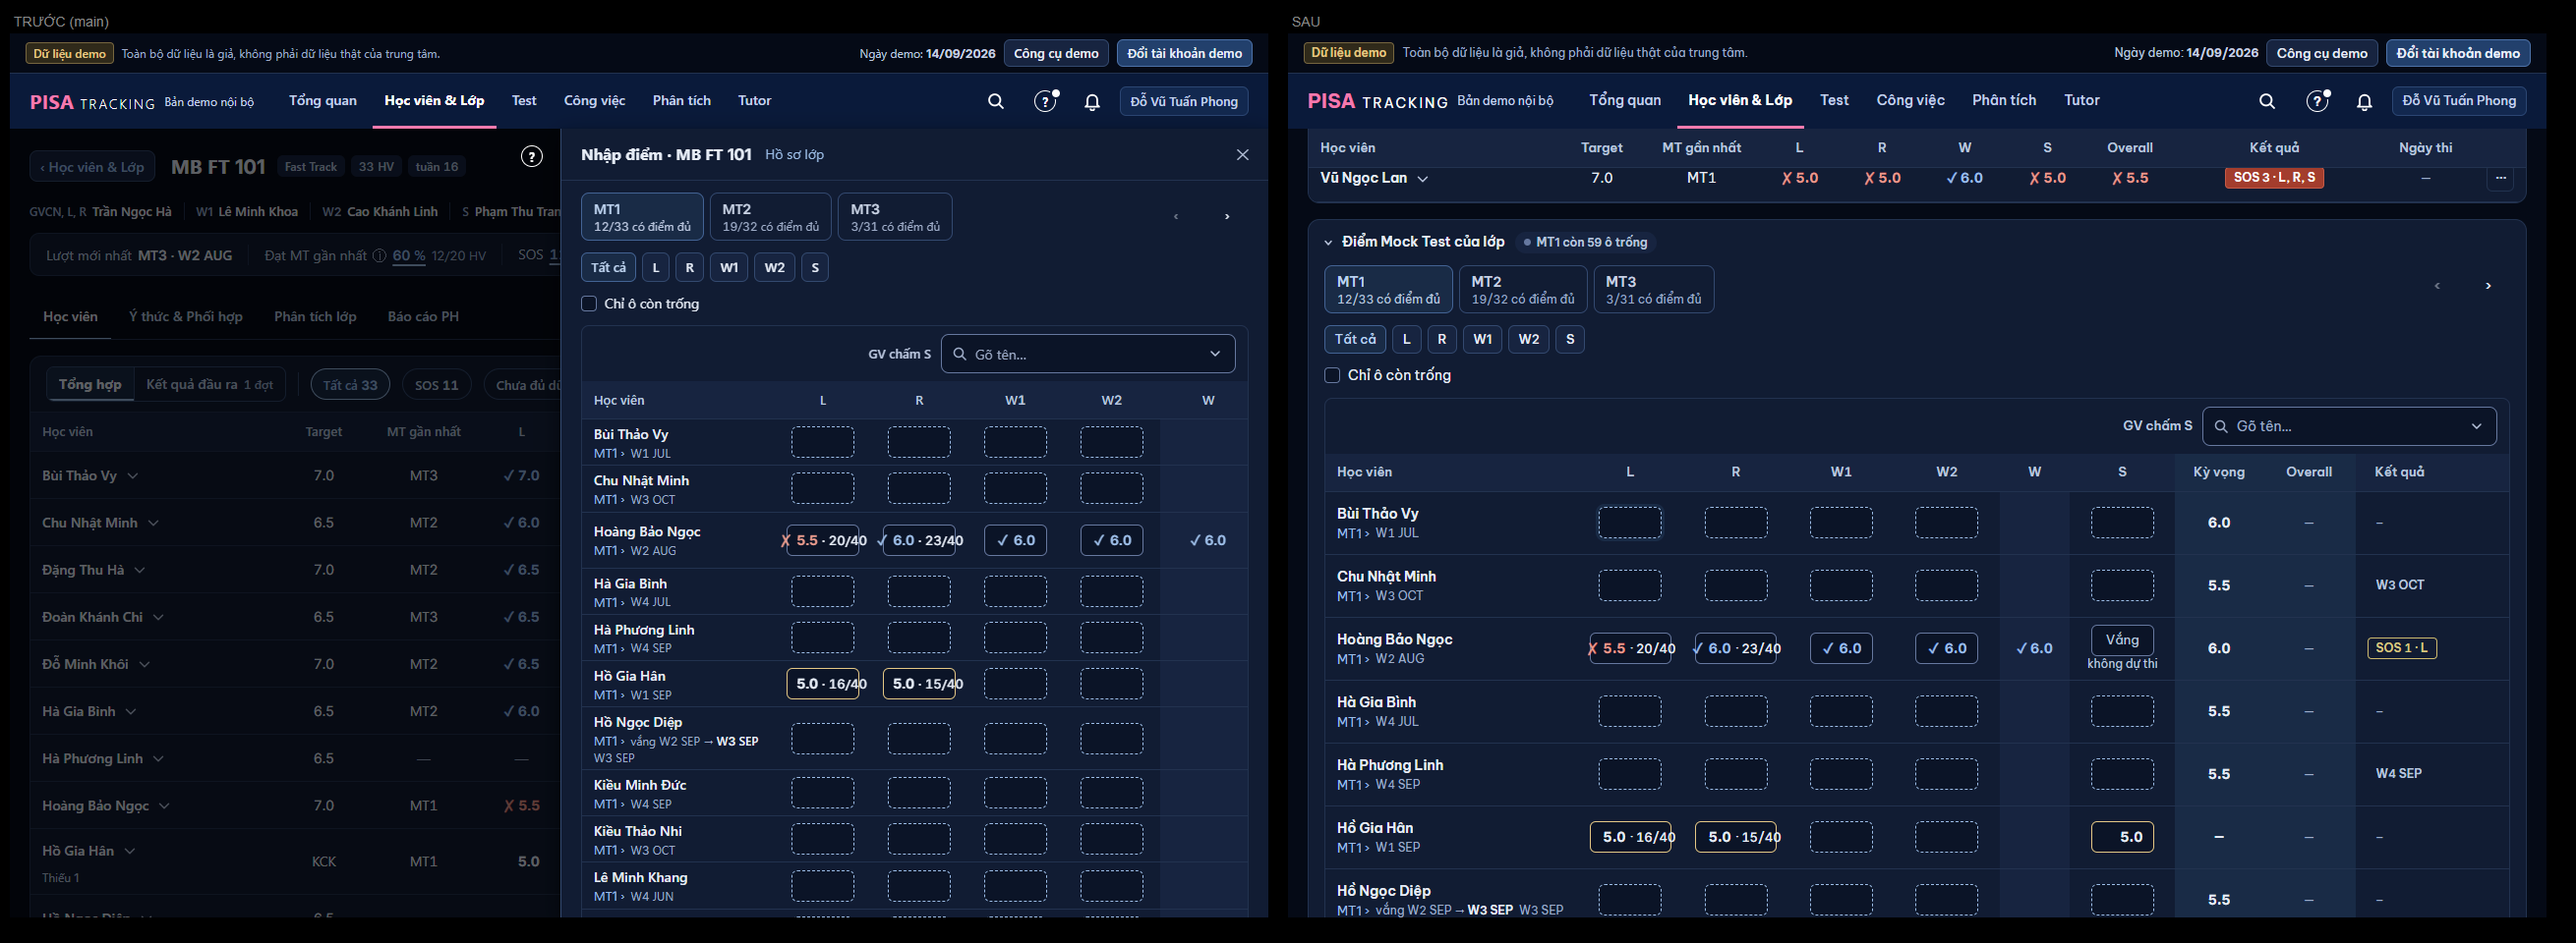
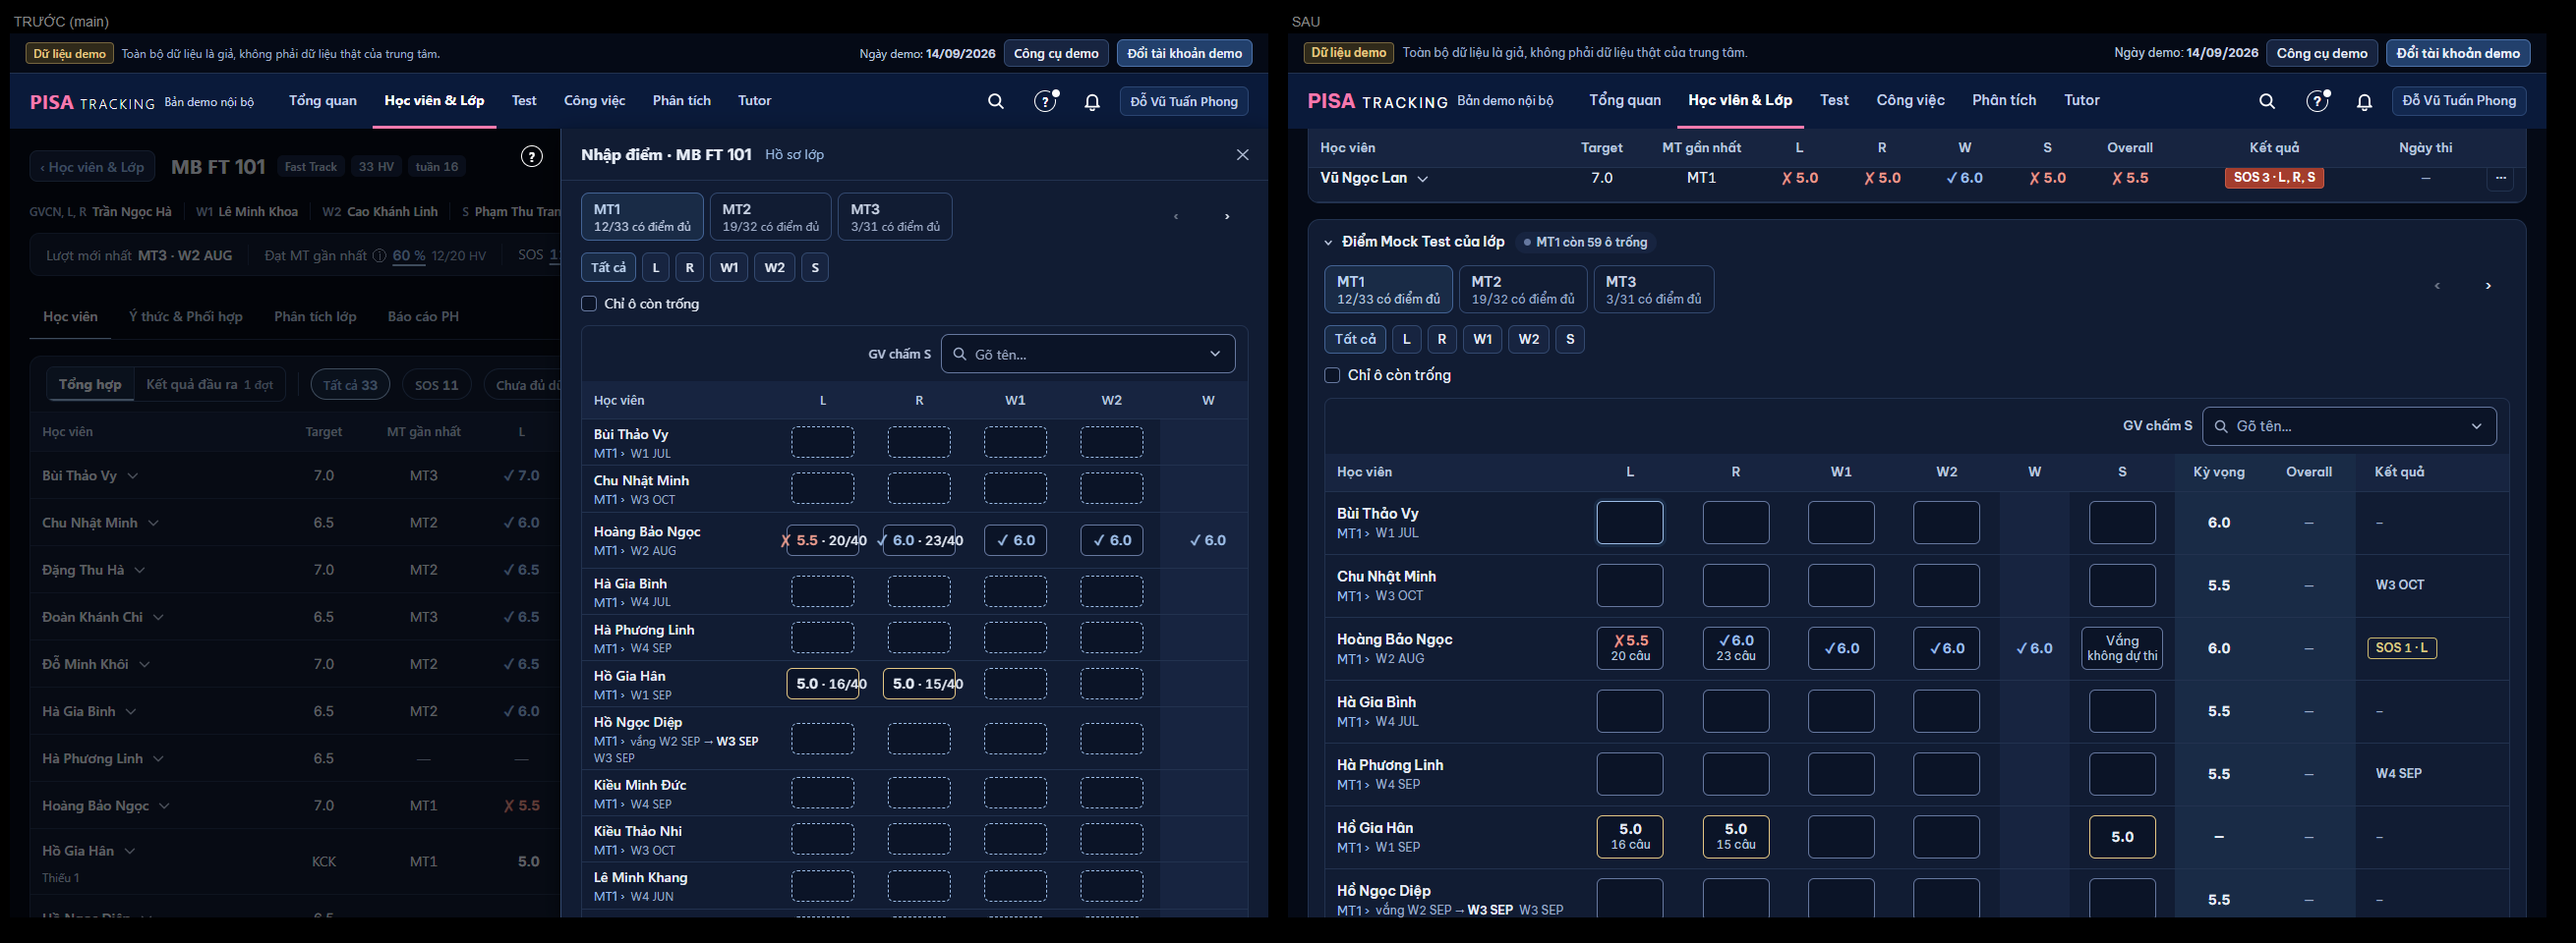
Khối điểm hồ sơ lớp: ô L/R hai tầng (band + n câu) như panel Công việc

diff --git a/web/src/modules/fasttrack/HopNhapDiem.tsx b/web/src/modules/fasttrack/HopNhapDiem.tsx
@@ -23,7 +23,7 @@ import { lazyHop } from '../../ui/lazyHop.tsx';
 import { OKhongHoc } from '../../ui/ODiem.tsx';
 import { ChipDaHuy } from '../../ui/Nhan.tsx';
 import { useContext, useState, type ReactNode } from 'react';
-import { OTrongPanel } from '../../ui/LuoiTrongPanel.tsx';
+import { OHaiTang, OTrongPanel } from '../../ui/LuoiTrongPanel.tsx';
 import { CHU_O_THIEU, chuDoiVang, demNguocSuaDau, laChamCheo, lyDoHuy, ngay, type NguoiChon } from '@shared/domain/index.ts';
 import { fmtBand, skillLabel } from '../../lib/format.ts';
 import { useApi } from '../../lib/useApi.ts';
@@ -201,6 +201,8 @@ export function ODiemMt({ cell, lon = false, mo, onMo, dauKq = null, anVang = fa
 }) {
   const [neo, setNeo] = useState<HTMLButtonElement | null>(null);
   const trongPanel = useContext(OTrongPanel);
+  const haiTangNgoai = useContext(OHaiTang);
+  const haiTang = trongPanel || haiTangNgoai;
   const vangGoc = oVangCua(cell, hop.tuanXem);
   if (cell.khongHoc) return <OKhongHoc nhan={skillLabel(cell.skill)} />;   // P8: môn em không học — không phải nút
   const h = hienO(cell, vangGoc);
@@ -232,7 +234,7 @@ export function ODiemMt({ cell, lon = false, mo, onMo, dauKq = null, anVang = fa
   }
   const nhanO = `${skillLabel(cell.skill)} · ${hop.ctx.tenHv}: ${h.doc}${cell.thieuNhanXet ? `, ${CHU_O_THIEU[cell.thieuNhanXet]}` : ''}`;
   const tieuDeO = h.kieu === 'huy' ? h.doc : cell.noShow?.text ?? (cell.thieuNhanXet ? CHU_O_THIEU[cell.thieuNhanXet] : t('{skillLabel} — bấm để nhập', { skillLabel: skillLabel(cell.skill) }));
-  if (trongPanel) {
+  if (haiTang) {
     /* Chủ SP 26/11 (#2196, ảnh mẫu = mockup v24 P2 `.lc .od`): ô 68 × 44 HAI TẦNG — band 14 / 700 (✓ / ✗ khi lưới có Kỳ vọng) trên, MỘT dòng phụ 12
        dưới: vắng / "→ W4 SEP" nếu có, không thì "21 câu". Dạng ngang "6.5 · 29/40" (#2173) chỉ ở Lịch Test tuần (nhánh dưới). */
     const cau = !h.kieu && cell.rawScore !== null && cell.band !== null
@@ -240,7 +242,7 @@ export function ODiemMt({ cell, lon = false, mo, onMo, dauKq = null, anVang = fa
     return (
       <span className="inline-flex max-w-full">
         <button ref={setNeo} type="button" aria-expanded={mo} aria-haspopup="dialog" aria-label={nhanO} title={tieuDeO} onClick={() => onMo(!mo)}
-          className={`o-sua grid h-11 w-[68px] max-w-full place-content-center justify-items-center leading-[1.15] tabular-nums [&_[data-phu-odiem]]:!mx-0 ${h.kieu && h.kieu !== 'trong' ? KIEU_O[h.kieu] : ''} ${mo ? '!border-[color:var(--accent)] shadow-[0_0_0_3px_var(--accent-soft)]' : cell.thieuNhanXet ? VIEN_THIEU_NX : ''}`}>
+          className={`o-sua grid h-11 ${trongPanel ? 'w-[68px] max-w-full' : 'min-w-[68px] max-w-full px-1.5 [&_[data-phu-odiem]]:whitespace-nowrap'} place-content-center justify-items-center leading-[1.15] tabular-nums [&_[data-phu-odiem]]:!mx-0 ${h.kieu && h.kieu !== 'trong' ? KIEU_O[h.kieu] : ''} ${mo ? '!border-[color:var(--accent)] shadow-[0_0_0_3px_var(--accent-soft)]' : cell.thieuNhanXet ? VIEN_THIEU_NX : ''}`}>
           {/* Chủ SP 14/11: số CĂN GIỮA ô — không chừa chỗ ký hiệu khi ô không có ✓ / ✗. */}
           <span className="inline-flex items-baseline whitespace-nowrap">{kq && kyHieu}{h.kieu === 'trong' ? <span className="text-transparent" aria-hidden>0</span>
             : <span className={h.kieu ? '' : `text-[14px] font-bold ${lopKq(kq)}`}>{h.chu}</span>}</span>

diff --git a/web/src/modules/cham/DiemTheoLop.tsx b/web/src/modules/cham/DiemTheoLop.tsx
@@ -12,6 +12,7 @@
 import { useCallback, useEffect, useMemo, useRef, useState, type KeyboardEvent, type MouseEvent, type MutableRefObject } from 'react';
 import { Link } from 'react-router-dom';
 import { useApi } from '../../lib/useApi.ts';
+import { OHaiTang } from '../../ui/LuoiTrongPanel.tsx';
 import { BaoDangLuuContext } from '../../ui/SaveState.tsx';
 import { Card, Empty, ErrorState, Skeleton } from '../../ui/ui.tsx';
 import {
@@ -252,9 +253,11 @@ export function DiemTheoLop({ classId, luotBanDau, locBanDau, gon = false, congR
                   <div className="rounded-lg border overflow-clip" style={{ borderColor: 'var(--line)' }}>
                     <BaoDangLuuContext.Provider value={baoLuu}>
                       <DongThiContext.Provider value>
+                        <OHaiTang.Provider value>
                         <LuoiChamLop data={b} kind={null} onReload={daLuuO} gon
                           chiAttempt={chiAttempt} hangMo={hangMo} anNutTao chiCot={mon ? [mon] : null} nutCaLop={false} onMotKyNang={setMotKyNang}
                           datConTro={!!yeuCau} lanCuon={yeuCau?.seq} />
+                        </OHaiTang.Provider>
                       </DongThiContext.Provider>
                     </BaoDangLuuContext.Provider>
                   </div>

diff --git a/web/src/ui/LuoiTrongPanel.tsx b/web/src/ui/LuoiTrongPanel.tsx
@@ -2,6 +2,8 @@ import { createContext, useEffect, useRef, type ReactNode } from 'react';
 
 /** GD-3 (mockup v21 K2 `.luoi` / `.od`): lưới đang nằm trong panel việc — ô điểm 96 × 44 (số + "n câu" trong ô), tên cột đủ chữ, cột Kết quả ghi "Chờ …". */
 export const OTrongPanel = createContext(false);
+/** Ô điểm FT HAI TẦNG (band to + "n câu" nhỏ) ngoài panel việc — khối điểm của hồ sơ lớp (chủ SP 26/11, #2196). Ngoài hai nơi này (Lịch Test tuần) ô vẫn một dòng "6.5 · 29/40". */
+export const OHaiTang = createContext(false);
 
 /**
  * LƯỚI NHẬP ĐIỂM TRONG PANEL VIỆC (chủ SP 08/11 duyệt #1246: "ô điểm ở panel bị clipped"). Lưới rộng hơn panel vẫn cuộn ngang
